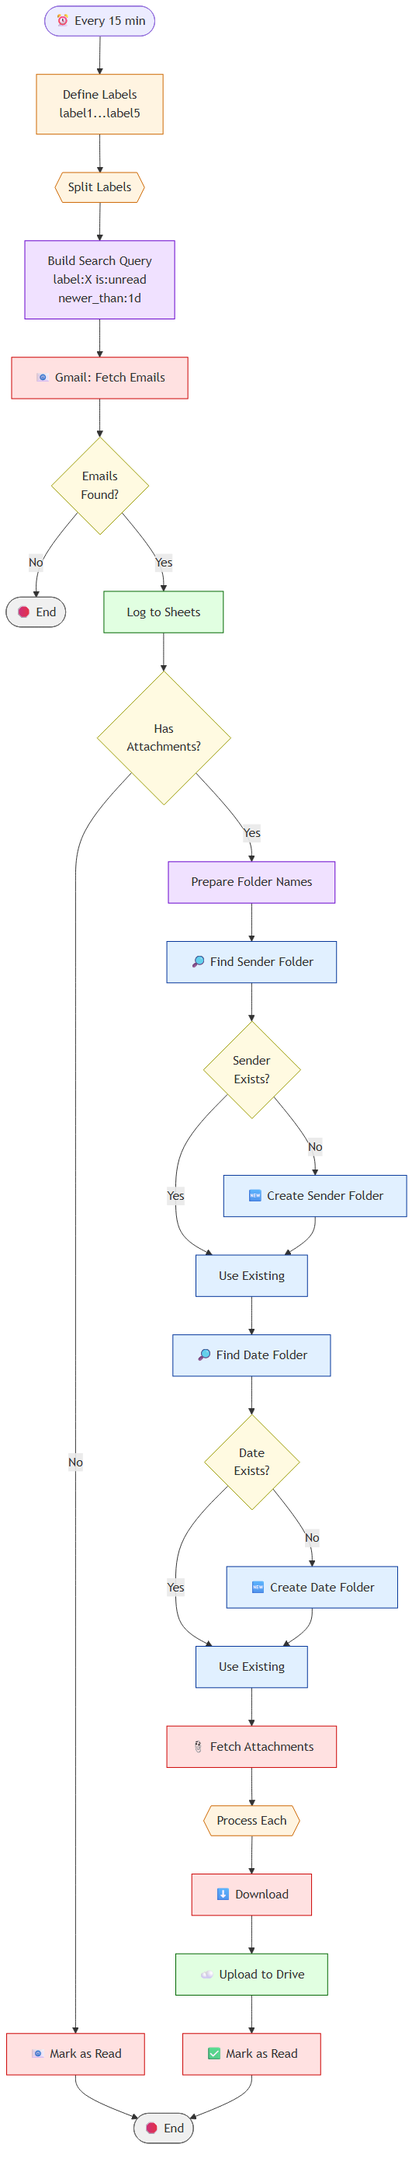
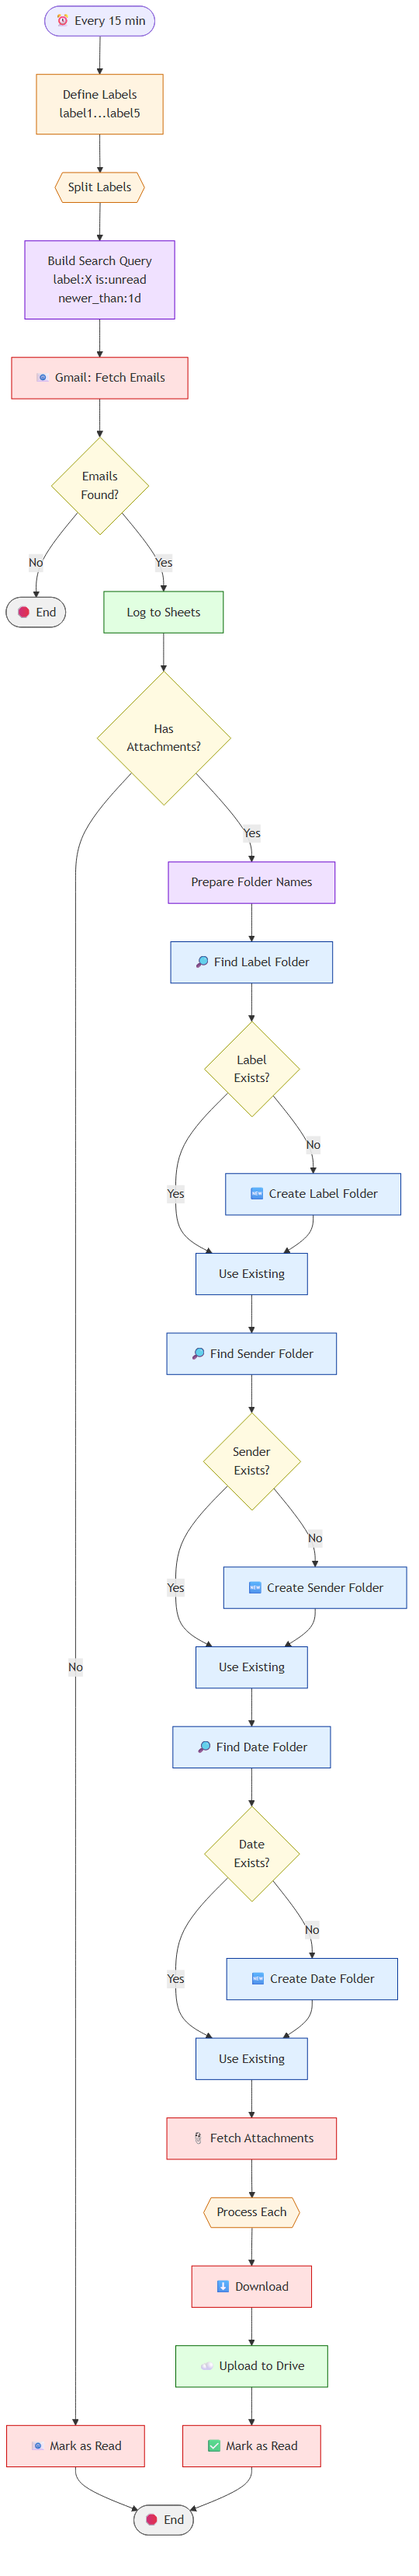
Add label-level folder to Gmail→Drive workflow (4-level hierarchy)
Drive path is now Root / <Label> / <Sender> / <Date> / <attachment> instead
of Root / <Sender> / <Date> / <attachment>. The new top level prevents
duplicates when a single email carries multiple Gmail labels: without it,
the same file would land in /Acme/2026-08-29/ once per label and the email
would be re-processed on every label's run.

Workflow JSON:
- Add 3 new nodes: HTTP "Find Existing Label Folder", If "Label Folder
  Exists?", HTTP "Create Label Folder" (find-or-create pattern, mirrors
  the existing sender-folder logic)
- Extend "Prepare Sender and Date Folder Names" to also emit
  labelFolderName / labelFolderNameEscaped, and switch sender-folder
  parents from rootFolderId to labelFolderId

Docs:
- ARCHITECTURE.md: rewrite the hierarchy tree with Label nodes and add
  rationale for the new level
- README.md: update foldering description, sample output, and the
  "How it works" step 6
- SETUP.md: document the new 4-level structure under "Create root folder"

Tests:
- Test/workflow_1_code_tests/test.js: cover sanitizeFolderName
  (label and sender variants) and the new labelFolderName / Escaped
  fields
- Test/README.md: bump test count (31 -> 38)

Changed region(s): [[0.0, 0.0, 0.9778, 0.9929], [0.1778, 0.3413, 0.2074, 0.4034]]

diff --git a/Test/workflow_1_code_tests/test.js b/Test/workflow_1_code_tests/test.js
@@ -486,17 +486,57 @@ test('escapes single quotes in sender name for Drive query', () => {
         `expected escaped apostrophe, got ${out[0].json.senderFolderNameEscaped}`);
 });
 
-console.log('\nMerge: Resolve Sender/Date Folder ID');
+test('produces labelFolderName from searchLabel', () => {
+    const code = codeByName('Prepare Sender & Date Folder Names');
+    const out = runCodeNode(code, {
+        input: { senderName: 'Acme', searchLabel: 'Clients', dateReceived: '2026-08-29T14:23:00Z' },
+    });
+    assertEqual(out[0].json.labelFolderName, 'Clients');
+    assertEqual(out[0].json.labelFolderNameEscaped, 'Clients');
+});
 
-// -- Merge nodes (both share the same pattern) ----------------------------
+test('sanitizes illegal characters in label name', () => {
+    const code = codeByName('Prepare Sender & Date Folder Names');
+    const out = runCodeNode(code, {
+        input: { senderName: 'X', searchLabel: 'Q4/Invoices:2026', dateReceived: '2026-08-29T14:23:00Z' },
+    });
+    // / and : are illegal Drive chars, replaced with _
+    assertEqual(out[0].json.labelFolderName, 'Q4_Invoices_2026');
+});
+
+test('truncates label name at 100 characters', () => {
+    const code = codeByName('Prepare Sender & Date Folder Names');
+    const longLabel = 'L'.repeat(150);
+    const out = runCodeNode(code, {
+        input: { senderName: 'X', searchLabel: longLabel, dateReceived: '2026-08-29T14:23:00Z' },
+    });
+    assertEqual(out[0].json.labelFolderName.length, 100);
+});
+
+test('falls back to "Unlabeled" when searchLabel is missing', () => {
+    const code = codeByName('Prepare Sender & Date Folder Names');
+    const out = runCodeNode(code, {
+        input: { senderName: 'X', dateReceived: '2026-08-29T14:23:00Z' },
+    });
+    assertEqual(out[0].json.labelFolderName, 'Unlabeled');
+});
+
+test('escapes single quotes in label name for Drive query', () => {
+    const code = codeByName('Prepare Sender & Date Folder Names');
+    const out = runCodeNode(code, {
+        input: { senderName: 'X', searchLabel: "Client's Folder", dateReceived: '2026-08-29T14:23:00Z' },
+    });
+    assert(out[0].json.labelFolderNameEscaped.includes("Client\\'s Folder"),
+        `expected escaped apostrophe, got ${out[0].json.labelFolderNameEscaped}`);
+});
+
+console.log('\nMerge: Resolve Sender/Date/Label Folder ID');
+
+// -- Merge nodes (share the same pattern) -------------------------------
 
 function makeMergeTests(nodeName, idField) {
-    const createNodeName = idField === 'senderFolderId'
-        ? 'HTTP: Create Sender Folder'
-        : 'HTTP: Create Date Folder';
-    const findNodeName = idField === 'senderFolderId'
-        ? 'HTTP: Find Existing Sender Folder'
-        : 'HTTP: Find Existing Date Folder';
+    const createNodeName = `HTTP: Create ${idField === 'senderFolderId' ? 'Sender' : idField === 'dateFolderId' ? 'Date' : 'Label'} Folder`;
+    const findNodeName = `HTTP: Find Existing ${idField === 'senderFolderId' ? 'Sender' : idField === 'dateFolderId' ? 'Date' : 'Label'} Folder`;
 
     test(`[${nodeName}] uses newly created folder id when create branch fires`, () => {
         const code = codeByName(nodeName);
@@ -532,6 +572,7 @@ function makeMergeTests(nodeName, idField) {
 
 makeMergeTests('Merge: Resolve Sender Folder ID', 'senderFolderId');
 makeMergeTests('Merge: Resolve Date Folder ID', 'dateFolderId');
+makeMergeTests('Merge: Resolve Label Folder ID', 'labelFolderId');
 
 // --- Result ----------------------------------------------------------------
 

diff --git a/Workflow 1- Multi-Label Gmail to Google Sheets and Drive Automation/ARCHITECTURE.md b/Workflow 1- Multi-Label Gmail to Google Sheets and Drive Automation/ARCHITECTURE.md
@@ -2,35 +2,43 @@
 
 ## Final Drive Folder Hierarchy
 
+Folder structure is **4 levels deep**: `Root / <Label> / <Sender> / <Date Received> / <attachments>`.
+
+The label level prevents collisions when the same sender emails multiple labels (e.g. "Clients" + "Invoices" — without label folders, both would dump into `/Acme/2026-08-29/` and duplicate attachments).
+
 ```
  Google Drive
    └──  Root (configurable)
        │
-       ├──  John Doe
-       │   ├──  2026-08-29
-       │   │   ├──  invoice_aug.pdf
-       │   │   ├──  contract_v2.docx
-       │   │   └──   signature.png
-       │   ├──  2026-08-28
-       │   │   └──  report.xlsx
-       │   └──  2026-08-25
-       │       └──  proposal.pdf
+       ├──  Clients
+       │   │
+       │   ├──  John Doe
+       │   │   ├──  2026-08-29
+       │   │   │   ├──  invoice_aug.pdf
+       │   │   │   ├──  contract_v2.docx
+       │   │   │   └──  signature.png
+       │   │   ├──  2026-08-28
+       │   │   │   └──  report.xlsx
+       │   │   └──  2026-08-25
+       │   │       └──  proposal.pdf
+       │   │
+       │   └──  Jane Smith
+       │       ├──  2026-08-29
+       │       │   └──  meeting_notes.pdf
+       │       └──  2026-08-27
+       │           └──  budget.xlsx
        │
-       ├──  Jane Smith
-       │   ├──  2026-08-29
-       │   │   └──  meeting_notes.pdf
-       │   └──  2026-08-27
-       │       └──  budget.xlsx
-       │
-       └──  Acme Corporation
-           ├──  2026-08-29
-           │   ├──  order_001.pdf
-           │   └──  shipping_label.png
-           └──  2026-08-26
-               └──  terms.pdf
+       └──  Invoices
+           │
+           └──  Acme Corporation
+               ├──  2026-08-29
+               │   ├──  order_001.pdf
+               │   └──  shipping_label.png
+               └──  2026-08-26
+                   └──  terms.pdf
 ```
 
-## Google Sheets Row Schema
+## GoogleSheets Row Schema
 
 | Column         | Type    | Example                              |
 |----------------|---------|--------------------------------------|
@@ -56,3 +64,7 @@
 | Find-or-create pattern            | Idempotent — re-running never duplicates folders                     |
 | Mark as read at the end           | Same email never processed twice on the next run                     |
 | `newer_than:1d` Gmail filter      | Bounded window — even if Mark-as-Read fails, no infinite loop        |
+| **Label as a folder level**       | **The same email can carry multiple labels — without a label folder, attaching the same file under two different labels would collide. The 4-level path (`Root / <Label> / <Sender> / <Date>`) keeps each label's storage isolated.** |
+| HTTP retry on every Google call   | 3 attempts with 2s backoff to ride out transient 429s / 5xxs        |
+| Auto-refreshing OAuth tokens      | HTTP nodes use `{{ $credentials.X.accessToken }}` expressions so tokens never expire mid-run |
+| `saveDataSuccessExecution: "500"` | Bounds execution-history retention to 500 runs (was `"all"`, which would fill the database) |

diff --git a/Workflow 1- Multi-Label Gmail to Google Sheets and Drive Automation/README.md b/Workflow 1- Multi-Label Gmail to Google Sheets and Drive Automation/README.md
@@ -1,6 +1,6 @@
 #  Gmail → Google Sheets + Drive Attachment Pipeline
 
-> An automated, production-ready **n8n workflow** that ingests labeled Gmail messages, logs sender metadata to a Google Sheet, and archives attachments in Google Drive — neatly organized by sender and date.
+> An automated, production-ready **n8n workflow** that ingests labeled Gmail messages, logs sender metadata to a Google Sheet, and archives attachments in Google Drive — neatly organized by **label, sender, and date**.
 
 ![n8n](https://img.shields.io/badge/n8n-Workflow-EA4B71?logo=n8n&logoColor=white)
 ![Gmail](https://img.shields.io/badge/Gmail-API-EA4335?logo=gmail&logoColor=white)
@@ -19,7 +19,7 @@
 |  **Multi-Label Support** | Monitors up to N Gmail labels in one execution path |
 |  **Metadata Logging** | Writes a clean row per email to Google Sheets (sender, subject, date, etc.) |
 |  **Attachment Capture** | Downloads every attachment, preserving the **original filename** |
-|  **Smart Foldering** | Drive hierarchy: `Root / <Sender Name> / <YYYY-MM-DD> / file.ext` |
+|  **Smart Foldering** | Drive hierarchy: `Root / <Label> / <Sender Name> / <YYYY-MM-DD> / file.ext` |
 |  **Idempotent** | Re-running never duplicates folders or rows |
 |  **Read-on-Process** | Marks email as read so it isn't reprocessed |
 |  **Defensive** | Edge cases handled — sanitized folder names, `newer_than:1d` window, graceful empty-state |
@@ -90,6 +90,9 @@ Three `Split Out` nodes (one per label, per email, per attachment) make every no
 ### 5. Code nodes for parsing
 Email headers (`From`, `Date`, etc.) have messy edge cases — encoded names, missing fields, malformed addresses. Pure expressions get ugly fast; small JS functions are clearer and easier to test.
 
+### 6. Label as the outermost folder
+The same email can carry multiple Gmail labels. Without a label-level folder, the same file would land in `/Acme/2026-08-29/` regardless of which label triggered processing — and a multi-labeled email would get re-processed and re-uploaded once per label, creating duplicates. The 4-level hierarchy (`Root / <Label> / <Sender> / <Date>`) keeps each label's storage isolated and idempotent.
+
 ---
 
 ##  Sample Output
@@ -106,16 +109,18 @@ Email headers (`From`, `Date`, etc.) have messy edge cases — encoded names, mi
 
 ```
  Gmail Attachments Archive/
-├──  John Doe/
-│   ├──  2026-08-29/
-│   │   ├──  Q3_Invoice.pdf
-│   │   └──  Contract_v2.docx
-│   └──  2026-08-25/
-│       └──  Proposal.pdf
-├──  Jane Smith/
-│   └──  2026-08-29/
-│       └──  meeting_notes.pdf
-└──  Acme Corp/
-    └──  2026-08-28/
-        └── (no attachments)
+├──  label1/                          ← e.g. "Clients"
+│   ├──  John Doe/
+│   │   ├──  2026-08-29/
+│   │   │   ├──  Q3_Invoice.pdf
+│   │   │   └──  Contract_v2.docx
+│   │   └──  2026-08-25/
+│   │       └──  Proposal.pdf
+│   └──  Acme Corp/
+│       └──  2026-08-28/
+│           └──  Order_Confirmation.pdf
+└──  label2/                          ← e.g. "Invoices"
+    └──  Jane Smith/
+        └──  2026-08-29/
+            └──  meeting_notes.pdf
 ```

diff --git a/Test/README.md b/Test/README.md
@@ -52,10 +52,10 @@ Tests cover:
 - **Build Dynamic Gmail Search Query** — picks first non-empty label, strips `label:` prefix
 - **Extract Sender & Email Metadata** (most complex, 65 lines) — parses `From` header, recursively walks `payload.parts` to collect attachments, filters out Gmail system labels
 - **Prepare: Mark Email as Read** — pass-through
-- **Prepare Sender & Date Folder Names** — sanitizes illegal Drive chars, RFC 2822 + ISO date parsing, single-quote escaping
-- **Merge: Resolve Sender Folder ID** / **Merge: Resolve Date Folder ID** — newly created vs existing branch, throws on failure
+- **Prepare Sender & Date Folder Names** — sanitizes illegal Drive chars (incl. label name), RFC 2822 + ISO date parsing, single-quote escaping, label fallback to "Unlabeled"
+- **Merge: Resolve Sender Folder ID** / **Merge: Resolve Date Folder ID** / **Merge: Resolve Label Folder ID** — newly created vs existing branch, throws on failure
 
-Currently **31 test cases**, all passing. Includes a few "documented limitation" tests that pin down known edge cases in the code (e.g. `CATEGORY_Promotions` is not filtered by the label regex because the pattern is anchored).
+Currently **38 test cases**, all passing. Includes a few "documented limitation" tests that pin down known edge cases in the code (e.g. `CATEGORY_Promotions` is not filtered by the label regex because the pattern is anchored).
 
 ### `workflow_2_code_tests/test.js` — Telegram Code-node unit tests
 

diff --git a/Workflow 1- Multi-Label Gmail to Google Sheets and Drive Automation/SETUP.md b/Workflow 1- Multi-Label Gmail to Google Sheets and Drive Automation/SETUP.md
@@ -110,7 +110,15 @@ Date Received  |  Snippet  |  Labels  |  Has Attachments  |  Source Label
 
 1. Create a parent folder: `Gmail Attachments Archive`
 2. Copy its folder ID from the URL (the part after `folders/`)
-3. This is your **root folder** — all sender subfolders live inside
+3. This is your **root folder**. Inside it, the workflow creates:
+   ```
+   Root/
+     <label-name>/          e.g. "Clients", "Invoices"
+       <sender-name>/       e.g. "John Doe", "Acme Corp"
+         <YYYY-MM-DD>/       date the email was received
+           <attachments>     original filenames
+   ```
+   The label-name folder prevents collisions when the same email carries multiple labels.
 
 ---
 
